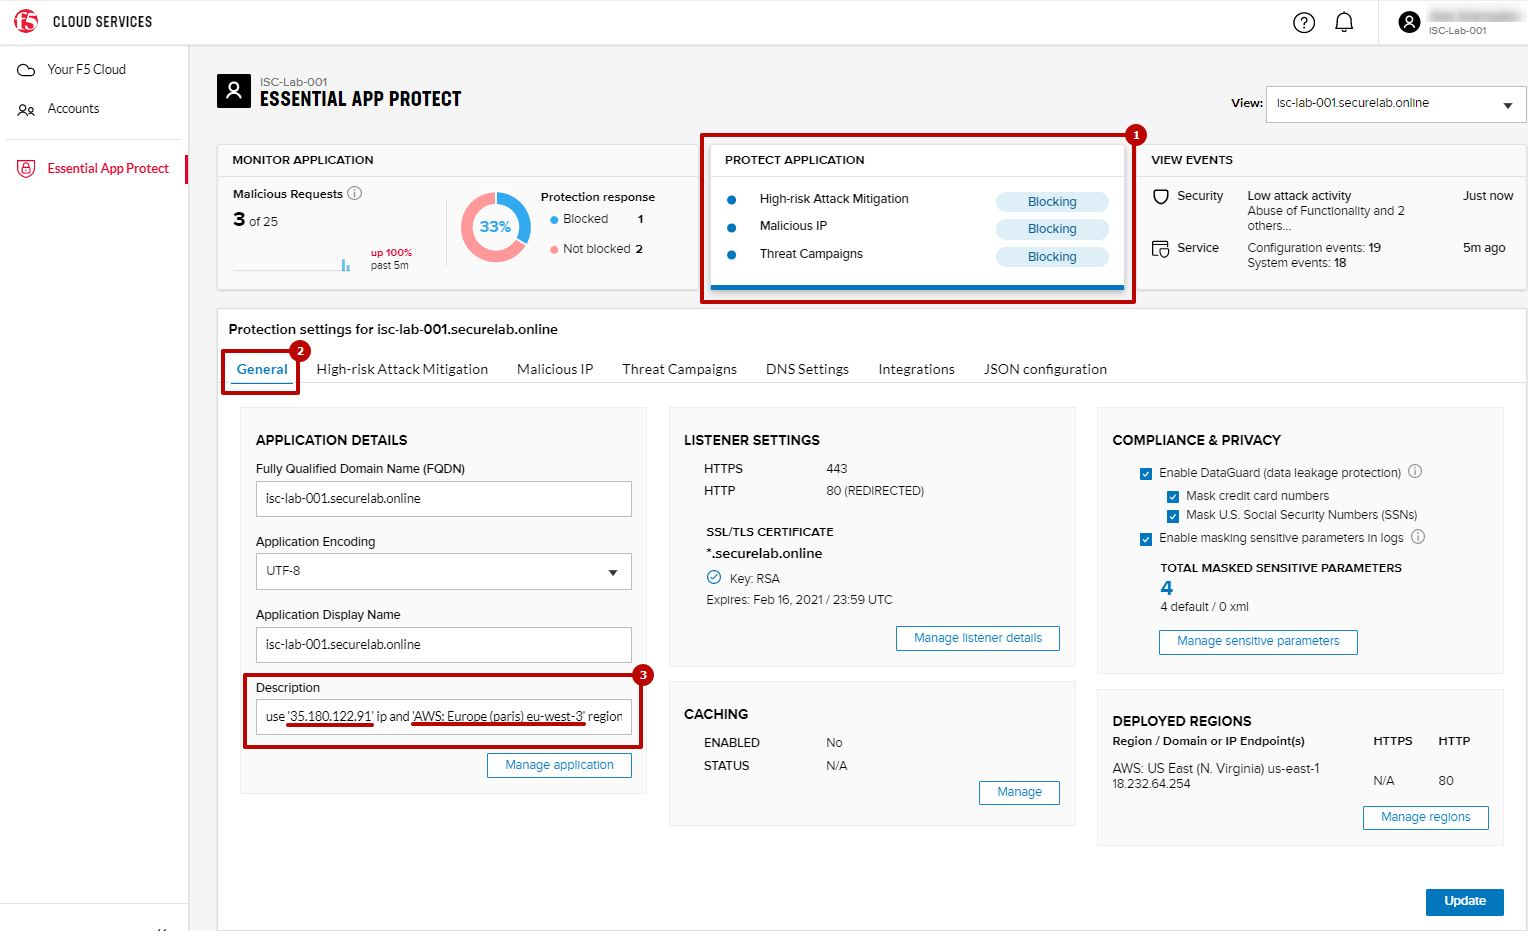
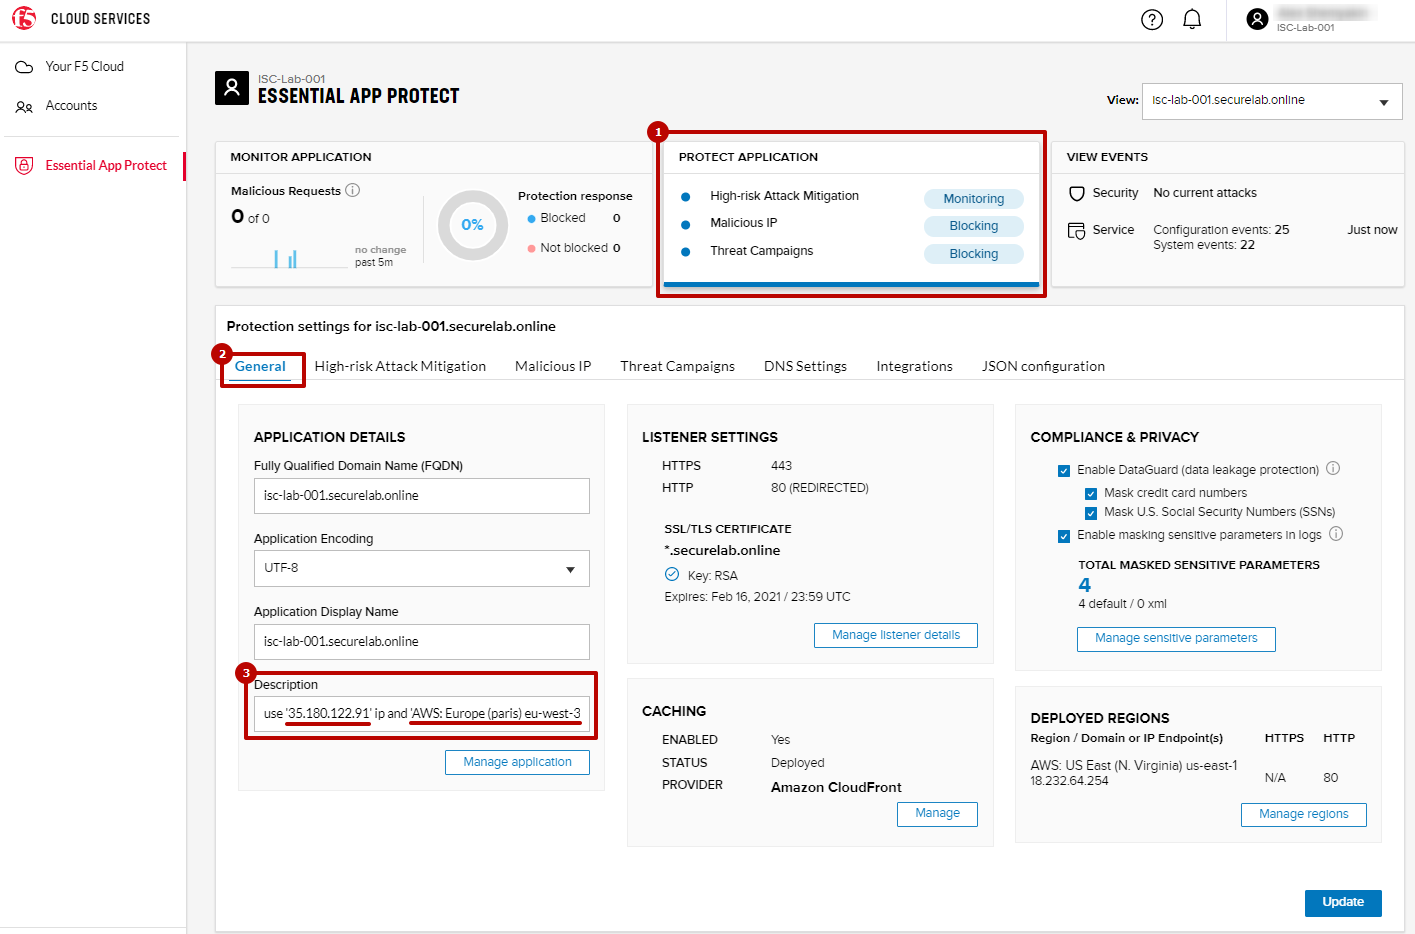
update the lab

diff --git a/README.rst b/README.rst
@@ -20,19 +20,12 @@ Pre-Requisites
 ###############
 
 - Main browser: any modern browser (Chrome recommended) for working with the UI (and this lab)
-- Opera browser: for simulating geo-specific traffic (https://www.opera.com/)
 
-`a)` In order to use F5 Essential App Protect you need access to F5 Cloud Services and be logged in with a valid user account. If you need to sign up, or if you already have one, use your Main browser to log into the `F5 Cloud Services portal <http://bit.ly/f5csreg>`_.
+In order to use F5 Essential App Protect you need access to F5 Cloud Services and be logged in with a valid user account. If you need to sign up, or if you already have one, use your Main browser to log into the `F5 Cloud Services portal <http://bit.ly/f5csreg>`_.
 
 .. figure:: https://github.com/f5devcentral/f5-cloudservice-eap-lb-lab/raw/master/_figures/0_1.png
 
 You can use use AWS CloudFront directly from F5 Essential App Protect, no additional accounts required. 
-
-`b)` In order to test geo-proximity rules, you can use either use your own VPN service (if you have one), a remote desktop to a VM in a different region (if you have one), or alternatively use the Opera browser as described below.
-
-Configure the Opera browser to enable built-in VPN: open the Opera browser, click **Settings**, **Advanced**, **Features** and then **Enable VPN**.
-
-.. figure:: _figures/opera_setup.png
 
 Running the Lab
 ###############
@@ -82,7 +75,7 @@ You can find detailed event log in the events stream in the F5 Cloud Services Po
 3. Add an Additional Region Endpoint
 ************************************************************************
 
-For now, our app only has one endpoint located in Asia Pacific (Sydney) and deployed on Amazon AWS. But our application is serving a global audience, so let's add the second endpoint located in Europe for European users. *NOTE: Your regions may be different, this is just an example*
+For now, our app only has one endpoint located in US East (N. Virginia) and deployed on Amazon AWS. Your regions can be different. But our application is serving a global audience, so let's add the second endpoint located in Europe for European users. *NOTE: Your regions may be different, this is just an example*
 
 `a)` Go to the F5 Cloud Services Portal, the **PROTECT APPLICATION** card. There, in the **Description** field of the **General** tab, you can find the information required for the second region.
 
@@ -108,47 +101,20 @@ When the app is deployed, you will see the **Active** state indicator.
 
 .. figure:: _figures/add_region_active.png
 
-**TODO: UPDATE SCREENSHOT**
-You can also track regions on the interactive map. Go to the **MONITOR APPLICATION** card where you can see that both endpoints are shown on the map. 
+Now let's open the app in the browser and we will see that the region changed to the closed one.
 
-.. figure:: _figures/add_region_map.png
+.. figure:: _figures/region_europe.png
 
-`e)` Now let’s test the protected app, as well as the multi-region support using the Opera browser. As you remember, we now have two endpoints for users in Asia Pacific and Europe, so we'll test those two locations. Keep in mind that Essential App Protect uses performance-based routing to determine the closest endpoint to drive the users to.
-
-Open the Opera browser, click **VPN** and first select **Asia**. This will simulate your entering the test app (BuyTime Auction) from the Asian region. Then copy FQDN name in Load balanced record properties and paste into the browser. You will get to that IP endpoint which is located in Asia Pacific (Sydney).
-
-**TODO: UPDATE SCREENSHOT**
-
-.. figure:: _figures/opera_america.png
-
-`f)` And now select **Europe** in **VPN** of the Opera browser and **Reload** the page. You will get to the European IP endpoint, which means that European users are directed to that IP Endpoint.
-
-**TODO: UPDATE SCREENSHOT**
-
-.. figure:: _figures/opera_europe.png
-
-4. Enable CloudFront Caching
+4. CloudFront Caching
 ************************************************************************
 
-Caching in Essential App Protect allows you to work with Amazon CloudFront that delivers content globally by caching it in different locations around the world. Now let's deploy caching and use CloudFront as caching provider. 
+Lets open the Developer tools by pressing Ctrl+Shift+I or From "Browser settings" => "More tools" => "Developer tools". Open the Network tab and disable caching and preserve logs.
 
-`a)` Go back to the F5 Cloud Services portal, **Essential App Protect**, the **PROTECT APPLICATION** card and hit **Manage** for **CACHING**.
+.. figure:: _figures/dev_tools.png
 
-.. figure:: _figures/cloudfront_setup.png
+Now we need to open two browser windows. At the first one we open the website using a domain name and at the second one we use the IP address from the description field in step 3.a. Try to press page refresh couple times and check the page load time. In the first window with domain name it's faster because the traffic flows through the CloudFront CDN.
 
-`b)` Check **Enable Caching**, select **EdgeTier 3** which uses all edges and provides the best performance, add **Accept** and **Authorization** headers forwarding, forward **all** cookies and click the **Update** button.
-
-.. figure:: _figures/cloudfront_setup_details.png
-
-The feature will be deployed in a few minutes.
-
-.. figure:: _figures/cloudfront_setup_deploying.png
-
-You will see **Deployed** status on the main page.
-
-.. figure:: _figures/cloudfront_ready.png
-
-`c)` To test CloudFront, let's.... 
+.. figure:: _figures/side_by_side.png
 
 What's Next?
 ###############
